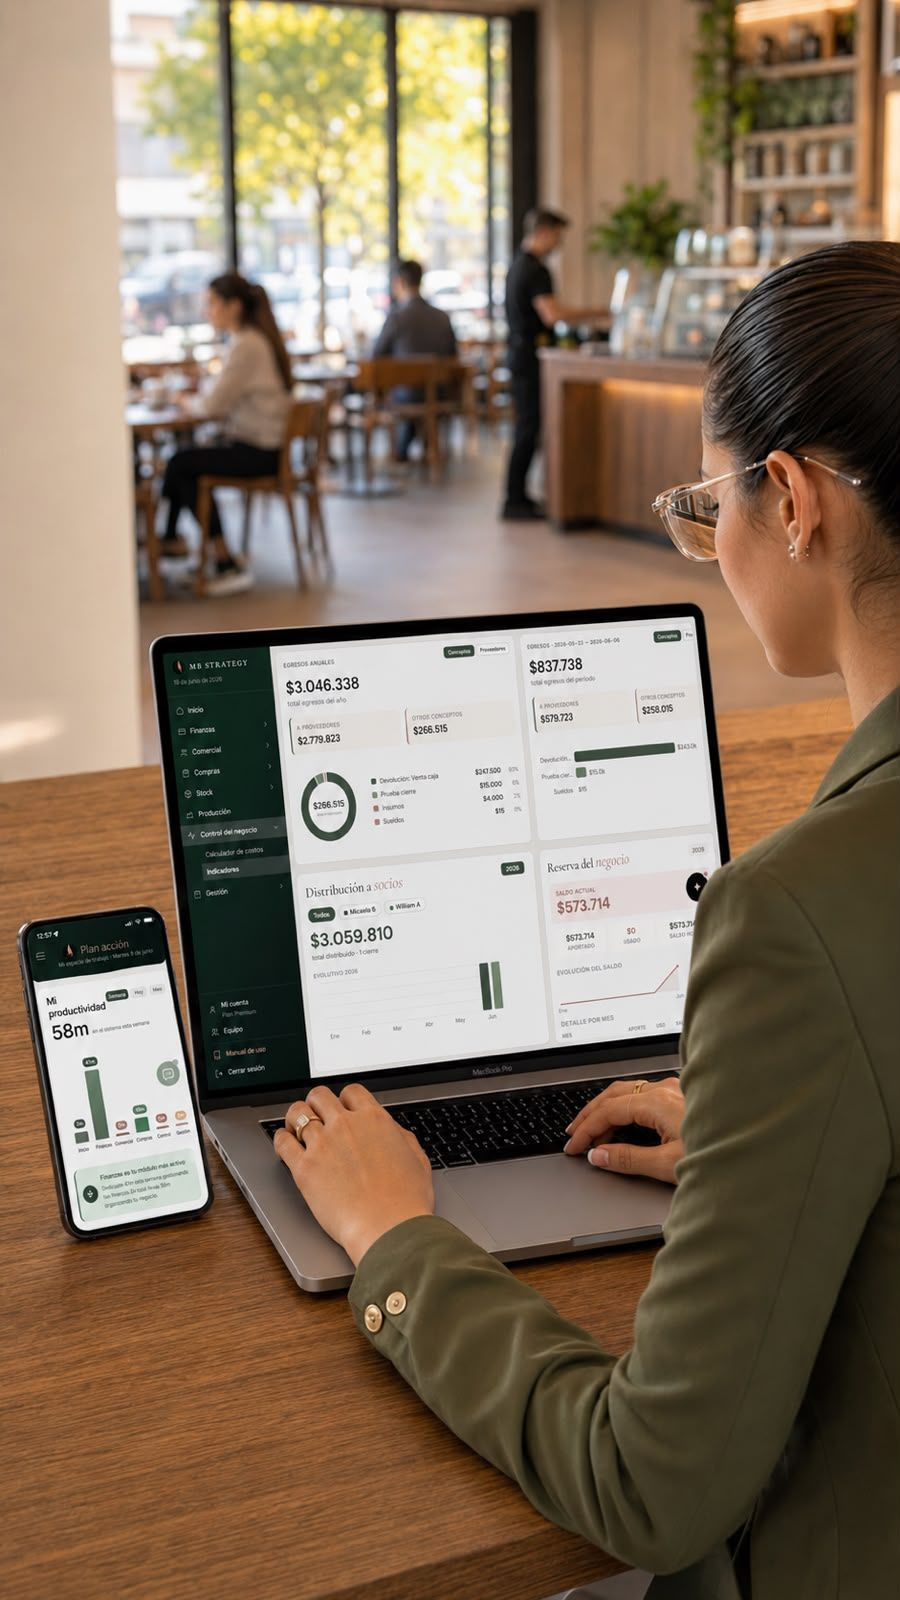
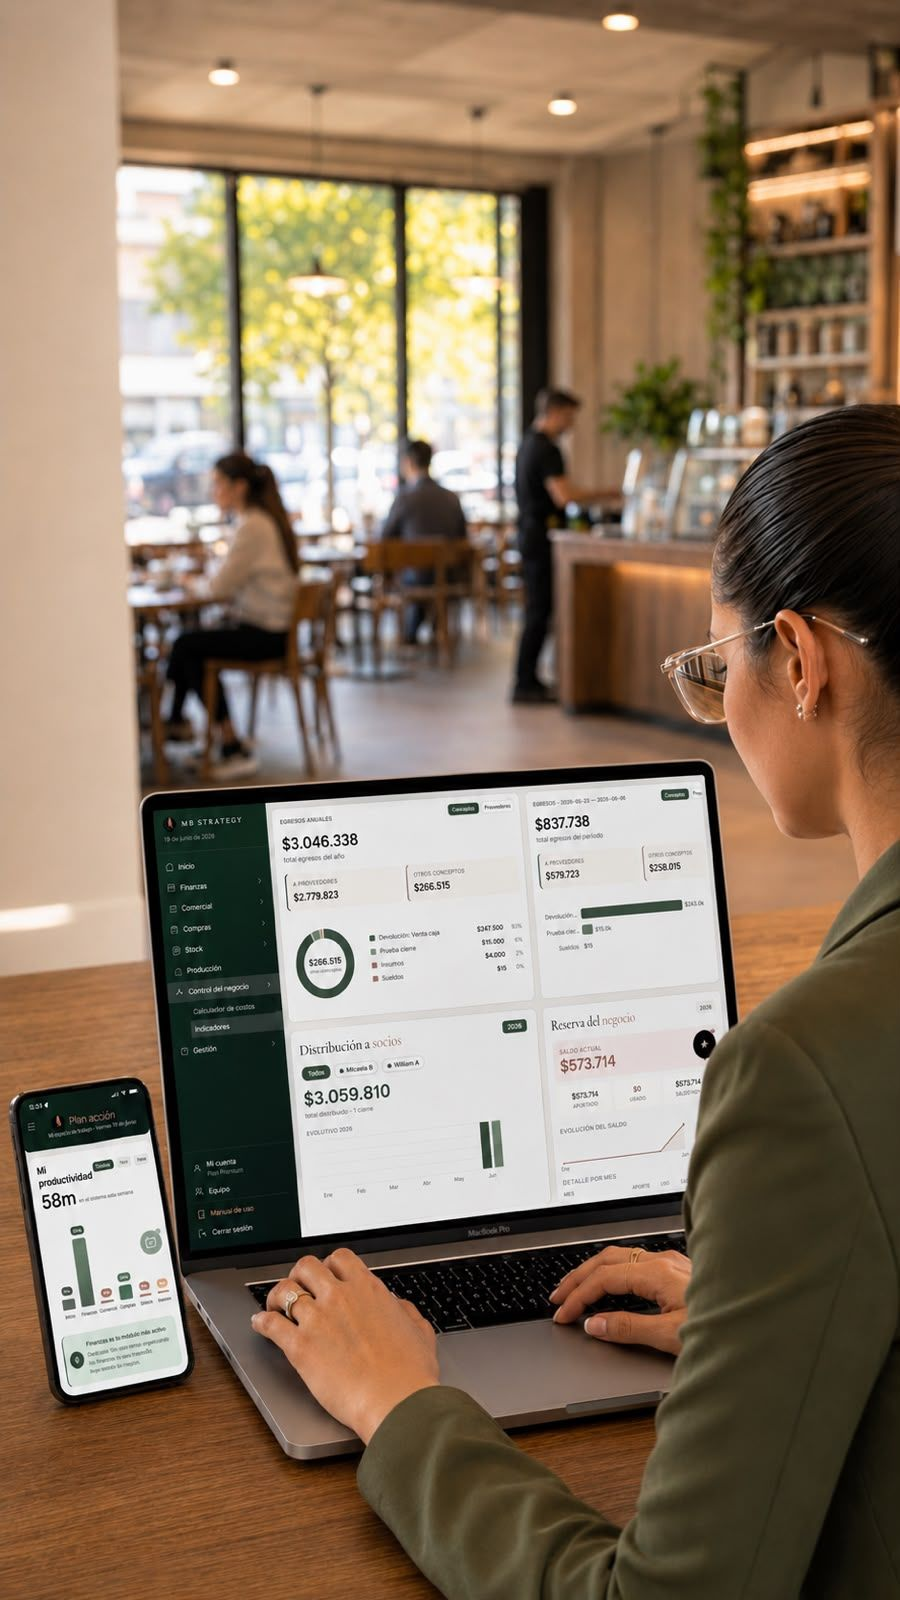
fix(landing): hero mobile pulido — foto, encuadre y texto
- Foto vertical definitiva (mitad superior despejada para el texto, escena completa abajo)
- Logo y nav mas compactos en mobile
- Texto reposicionado sobre la zona despejada, sin pisar pantalla ni cara
- Boton "Ver sistema en accion" reubicado debajo del celular (mejor contraste)
- Overlay suave para mantener la foto luminosa

diff --git a/landing/index.html b/landing/index.html
@@ -232,18 +232,23 @@
     .nav-menu{display:none}
     .nav-toggle{display:block;margin-left:auto}
     .logo-txt span{display:none}
+    nav{height:56px}
+    .logo .lmark{width:30px;height:30px}
+    .logo-txt b{font-size:15px}
     .nav-cta{display:none}
     .eyebrow{display:none}
-    .hero{align-items:stretch;padding:140px 0 40px}
+    .hero{align-items:stretch;padding:60px 0 12px}
     .hero-inner{transform:none;padding-top:0;display:flex;flex-direction:column}
-    .hero-inner>div{display:flex;flex-direction:column;flex:1}
-    .hero-actions{margin-top:auto;margin-bottom:56px}
-    .hero-bg{background-image:url("hero-mobile.jpg");background-position:center center}
+    .hero-inner>div{display:flex;flex-direction:column;flex:1;max-width:280px}
+    .hero-actions{margin-top:auto;margin-bottom:0}
+    .hero-bg{background-image:url("hero-mobile.jpg");background-size:cover;background-position:center top}
+    .hero-overlay{background:linear-gradient(180deg,rgba(10,24,19,.62) 0%,rgba(11,26,20,.5) 22%,rgba(13,31,26,.28) 42%,rgba(13,31,26,.12) 62%,rgba(13,31,26,0) 100%)}
+    .hero h1{text-shadow:0 2px 8px rgba(0,0,0,.7),0 1px 3px rgba(0,0,0,.6)}
+    .hero .lead{text-shadow:0 2px 8px rgba(0,0,0,.75),0 1px 3px rgba(0,0,0,.65)}
   }
   @media(max-width:560px){
     .wrap{padding:0 20px}.hero h1{font-size:40px}.sec-title{font-size:32px}.embi h2{font-size:30px}.cta h2{font-size:32px}
     .embi-list{grid-template-columns:1fr}.sec{padding:60px 0}.cta-cards{flex-direction:column}
-    .logo-txt b{font-size:17px}
   }
 </style>
 </head>